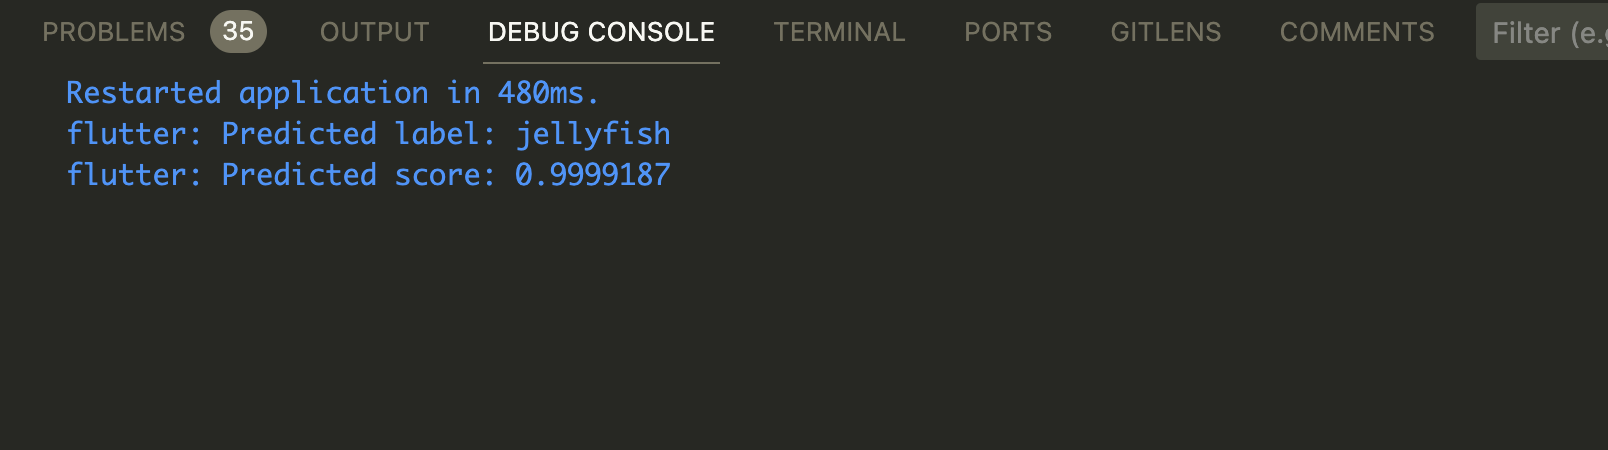
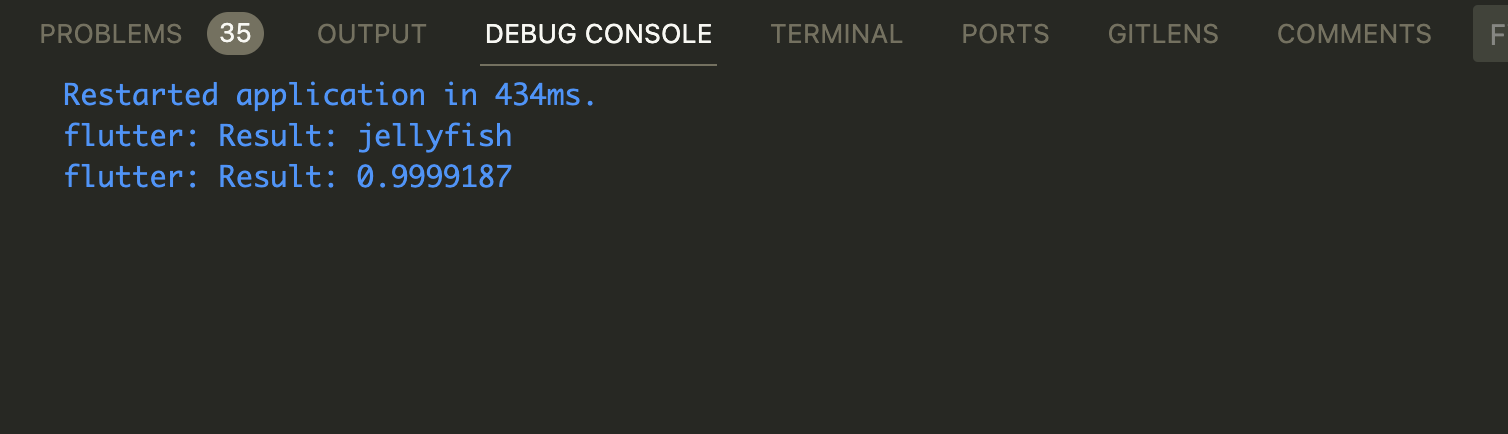
api test/ added some note

Changed region(s): [[0.0312, 0.0, 1.0, 0.1498], [0.0312, 0.1797, 0.4363, 0.4493]]

diff --git a/Flutter_quest/flutter_4/jelly.dart b/Flutter_quest/flutter_4/jelly.dart
@@ -1,4 +1,4 @@
-// // ignore_for_file: library_private_types_in_public_api, avoid_print
+// // ignore_for_file: use_key_in_widget_constructors, library_private_types_in_public_api, avoid_print
 
 // import 'dart:convert';
 // import 'package:flutter/material.dart';
@@ -9,7 +9,7 @@
 // }
 
 // class MyApp extends StatelessWidget {
-//   const MyApp({super.key});
+//   const MyApp({Key? key});
 
 //   @override
 //   Widget build(BuildContext context) {
@@ -21,22 +21,26 @@
 // }
 
 // class MyHomePage extends StatefulWidget {
-//   const MyHomePage({super.key});
+//   const MyHomePage({Key? key});
 
 //   @override
 //   _MyHomePageState createState() => _MyHomePageState();
 // }
 
-
 // class _MyHomePageState extends State<MyHomePage> {
 //   String result = "";
-//   TextEditingController urlController = TextEditingController();
+//   late TextEditingController urlController;
 
-//   Future<void> fetchData(int queryType) async {
+//   @override
+//   void initState() {
+//     super.initState();
+//     urlController = TextEditingController();
+//   }
+
+//   Future<void> fetchData(String apiUrl) async {
 //     try {
-//       const enteredUrl = 'https://5647-34-83-37-72.ngrok-free.app/';
 //       final response = await http.get(
-//         Uri.parse("${enteredUrl}sample1"),
+//         Uri.parse(apiUrl),
 //         headers: {
 //           'Content-Type': 'application/json',
 //           'ngrok-skip-browser-warning': '69420',
@@ -45,11 +49,7 @@
 //       if (response.statusCode == 200) {
 //         final data = jsonDecode(response.body);
 //         setState(() {
-//           if (queryType == 1) {
-//             result = "Predicted label: ${data['predicted_label']}";
-//           } else if (queryType == 2) {
-//             result = "Predicted score: ${data['prediction_score']}";
-//           }
+//           result = "Result: $data";
 //         });
 //       } else {
 //         setState(() {
@@ -62,6 +62,12 @@
 //         result = "Error: $e";
 //       });
 //     }
+//   }
+
+//   @override
+//   void dispose() {
+//     urlController.dispose();
+//     super.dispose();
 //   }
 
 //   @override
@@ -103,7 +109,8 @@
 //                     style: ElevatedButton.styleFrom(
 //                       backgroundColor: Colors.cyan,
 //                     ),
-//                     onPressed: () => fetchData(1),
+//                     onPressed: () => fetchData(
+//                         'https://3bd1-34-83-37-72.ngrok-free.app/sample1'),
 //                     child: const Text(
 //                       'Label',
 //                       style: TextStyle(
@@ -116,7 +123,8 @@
 //                     style: ElevatedButton.styleFrom(
 //                       backgroundColor: Colors.cyan,
 //                     ),
-//                     onPressed: () => fetchData(2),
+//                     onPressed: () => fetchData(
+//                         'https://3bd1-34-83-37-72.ngrok-free.app/sample2'),
 //                     child: const Text(
 //                       'Score',
 //                       style: TextStyle(

diff --git a/Flutter_quest/flutter_4/server_fastapi_vgg16.py b/Flutter_quest/flutter_4/server_fastapi_vgg16.py
@@ -30,13 +30,13 @@ async def read_root():
 async def sample_prediction():
     result = await vgg16_prediction_model.prediction_model()
     print(result["predicted_label"])
-    return result
+    return result["predicted_label"]
 
 @app.get('/sample2')
 async def sample_prediction():
     result = await vgg16_prediction_model.prediction_model()
     print(result["prediction_score"])
-    return result
+    return result["prediction_score"]
 
 
 # Run the server
